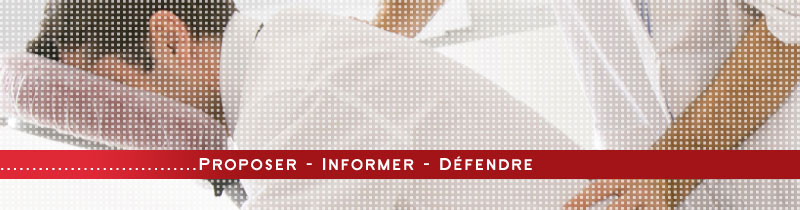
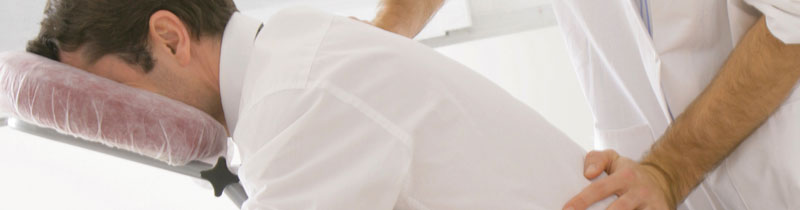
motifs bannière carrousel page accueil

diff --git a/web/app/themes/snmkr/assets/styles/common/_global.less b/web/app/themes/snmkr/assets/styles/common/_global.less
@@ -34,16 +34,27 @@ hr {
 	margin-top: 0;
 }
 
-.owl-carousel {
+.banner {
 	border: solid 1px #e4e4e4;
-	background: #fff;
+	background: @brand-primary;
+	color: #fff;
 	.border-top-radius(@border-radius-base);
 	.border-bottom-radius(@border-radius-base); 
 }
 
+.owl-carousel {
+	
+
+}
+
+.baseline {	
+	padding: 4px;
+	margin: 0;
+}
+
 .widget {
-	background: #ccc;
-	padding: 1em;
+	background: rgba(185,183,190, 0.6);
+	padding: @grid-gutter-width;
 	margin-bottom: 1em;
 	.border-top-radius(@border-radius-base);
 	.border-bottom-radius(@border-radius-base);

diff --git a/web/app/themes/snmkr/accueil.php b/web/app/themes/snmkr/accueil.php
@@ -31,8 +31,7 @@
 
 
 
-
-		<h2 class="sr-only">Proposer, informer, défendre</h2>
+	<div class="banner" role="banner">
 
 		<div class="owl-carousel">
 		
@@ -53,6 +52,10 @@
 			</div>
 
 		</div> <!-- /owl-carousel -->
+
+		<h2 class="baseline h4 text-center">Proposer, informer, défendre</h2>
+	</div>
+
 
 
 	<!-- pagination here -->
